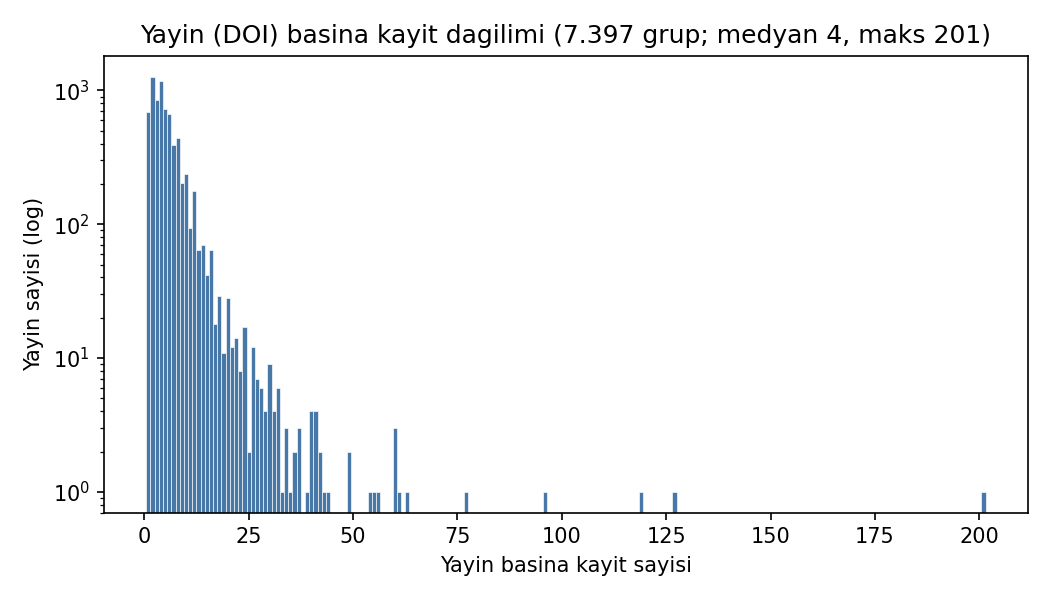
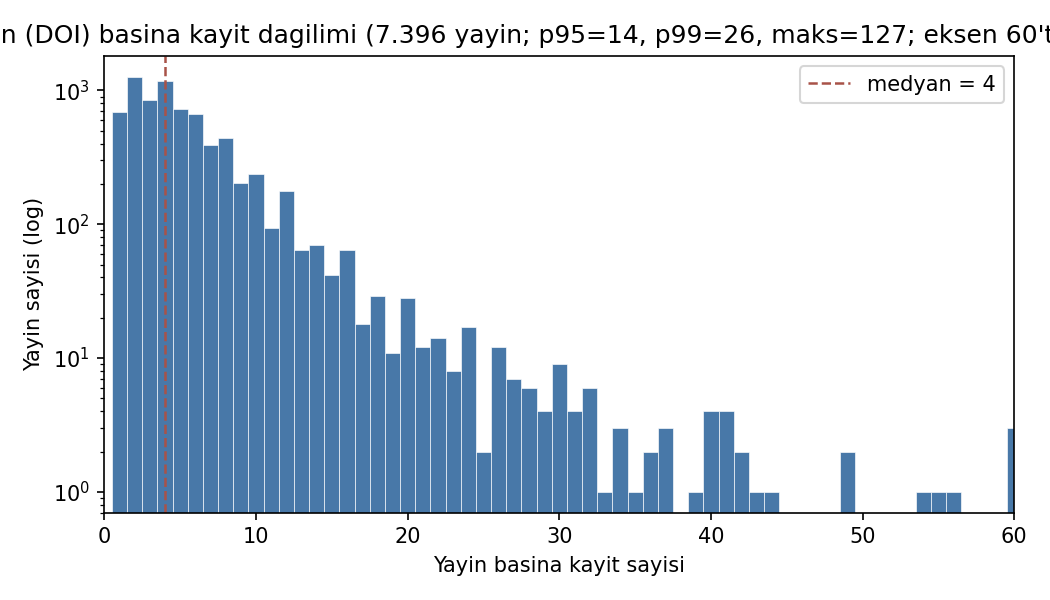
Tez denetimi duzeltmeleri: Sekil 4.5 tez varyanti, 03-07 kosu-manifestleri, denetim JSON ciktilari
- thesis_figures.py Sekil 4.5: tezdeki sekille ayni varyant (yalnizca bilinen-DOI
  7.396 yayin, x-ekseni 60'ta kesim, medyan cizgisi); PNG yeniden uretildi
- scripts/03-07'ye write_manifest eklendi ve asamalar yeniden kosuldu ->
  tez 3.15'teki 'her asamanin kosu-manifesti' iddiasi artik tum asamalar icin
  gecerli (yeniden kosumda commit'li sonuc dosyalari bit-duzeyinde degismedi;
  yalnizca RandomForest satirinda 1e-16 duzeyi kayan-nokta farki gozlendi ve
  orijinal dosya korundu)
- doi_grup_dogrulama_v2.py ve kontamine_test_maesi.py artik JSON ozet yaziyor;
  tez 5.7'deki 44/10/37/362/%0,87 ve 35 kayit MAE 3,36-3,15 degerleri commit'li
  dosyadan izlenebilir
- Sekil 4.11 kaynagi outputs/v4/actual_vs_predicted.png commit'lendi (tek eksik sekil)
- registry.py: kullanilmayan KNeighborsRegressor import'u kaldirildi
- run_all.py docstring + README: --all kapsami (thesis_data_analysis + thesis_figures)
- ci.yml: yanlis 'alt-sinir uyumlulugu sinanir' yorumu duzeltildi

diff --git a/doi_grup_dogrulama_v2.py b/doi_grup_dogrulama_v2.py
@@ -135,3 +135,24 @@ print("\n[D] Ham veri kontrolu (Perovskite_database_content_all_data.csv):")
 raw = pd.read_csv("data/raw/Perovskite_database_content_all_data.csv",
                   encoding="utf-8-sig", usecols=["Ref_DOI_number"], low_memory=False)
 print(f"    Ham satir: {len(raw)}, DOI'siz (NaN): {raw['Ref_DOI_number'].isna().sum()}")
+
+# ---------- Ozet JSON (tez 5.7 / README'deki degerler commit'li dosyadan izlenebilsin) ----------
+import json
+from pathlib import Path
+
+summary = {
+    "n_doi_missing": int(n_missing),
+    "n_unknown_doi_group": int(n_unknown),
+    "n_groups_pipeline": int(len(uniq_raw)),
+    "n_collisions_normalized": int(len(collisions)),
+    "n_records_affected": int(n_affected_records),
+    "n_collisions_split_holdout": int(len(split_holdout)),
+    "n_collisions_split_cv": int(len(split_cv)),
+    "n_records_split_holdout": int(n_rec_split_holdout),
+    "n_records_split_cv": int(n_rec_split_cv),
+    "pct_records_split_cv": round(100 * n_rec_split_cv / len(M), 3),
+}
+outp = Path("outputs/robustness/doi_grup_dogrulama.json")
+outp.parent.mkdir(parents=True, exist_ok=True)
+json.dump(summary, open(outp, "w", encoding="utf-8"), indent=2, ensure_ascii=False)
+print(f"\nOzet JSON: {outp}")

diff --git a/scripts/thesis_figures.py b/scripts/thesis_figures.py
@@ -97,15 +97,25 @@ def main():
         axes[1].set_title("Band gap'e gore ortalama PCE (kutu n >= 30)")
         _save(fig, outdir, "sekil_4_03_bandgap.png", made)
 
-        # Sekil 4.5 — DOI basina kayit sayisi
-        sizes = M.groupby(M[gcol].fillna("unknown_doi").astype(str)).size()
+        # Sekil 4.5 — DOI basina kayit sayisi (tez basligiyla uyumlu: yalnizca
+        # DOI'si bilinen yayinlar; x-ekseni 60 kayitta kesilir, kuyruk maks 127).
+        # DOI'siz kayitlarin tek yapay grupta toplandigi kurulum (7.397 grup,
+        # en buyuk grup 201) yalnizca bolme mantigini ilgilendirir; tez metninde
+        # ayrica raporlanir.
+        known = M[M[gcol].notna()]
+        sizes = known.groupby(known[gcol].astype(str)).size()
+        p95, p99 = np.percentile(sizes, [95, 99])
         fig, ax = plt.subplots(figsize=(7, 4))
         ax.hist(sizes, bins=np.arange(0.5, sizes.max() + 1.5, 1),
                 color="#4878a8", edgecolor="white", linewidth=0.3)
         ax.set_yscale("log")
+        ax.set_xlim(0, 60)
+        ax.axvline(sizes.median(), color="#a85248", linestyle="--", linewidth=1.2,
+                   label=f"medyan = {sizes.median():.0f}")
+        ax.legend()
         ax.set_xlabel("Yayin basina kayit sayisi"); ax.set_ylabel("Yayin sayisi (log)")
-        ax.set_title(f"Yayin (DOI) basina kayit dagilimi ({_tr(sizes.shape[0])} grup; "
-                     f"medyan {sizes.median():.0f}, maks {sizes.max()})")
+        ax.set_title(f"Yayin (DOI) basina kayit dagilimi ({_tr(sizes.shape[0])} yayin; "
+                     f"p95={p95:.0f}, p99={p99:.0f}, maks={sizes.max()}; eksen 60'ta kesildi)")
         _save(fig, outdir, "sekil_4_05_doi_dagilimi.png", made)
 
         # Sekil 4.6 — medyanla doldurulan degiskenlerin oranlari

diff --git a/kontamine_test_maesi.py b/kontamine_test_maesi.py
@@ -66,3 +66,19 @@ print(f"\nKontamine test kayitlari (n={len(mask_contam)}): MAE = {ae[mask_contam
 print(f"Temiz test kayitlari     (n={len(mask_clean)}): MAE = {ae[mask_clean].mean():.3f}")
 print("\nYorum: kontamine MAE, temiz MAE'den YUKSEK ise sizinti bu kayitlarda")
 print("olculebilir bir skor sisirmesi yaratmamis demektir.")
+
+# Ozet JSON (tez 5.7'deki 35 kayit / MAE 3,36-3,15 degerleri commit'li dosyadan izlenebilsin)
+import json
+from pathlib import Path
+
+summary = {
+    "n_contaminated_test": int(len(mask_contam)),
+    "n_clean_test": int(len(mask_clean)),
+    "mae_contaminated": round(float(ae[mask_contam].mean()), 3),
+    "mae_clean": round(float(ae[mask_clean].mean()), 3),
+    "n_train_side_records": int(train_side_n),
+}
+outp = Path("outputs/robustness/kontamine_test_maesi.json")
+outp.parent.mkdir(parents=True, exist_ok=True)
+json.dump(summary, open(outp, "w", encoding="utf-8"), indent=2, ensure_ascii=False)
+print(f"\nOzet JSON: {outp}")

diff --git a/scripts/03_compare_models.py b/scripts/03_compare_models.py
@@ -19,6 +19,7 @@ from perovskite_ml.config import load_config
 from perovskite_ml.models.registry import build_models
 from perovskite_ml.models.evaluate import metrics
 from perovskite_ml.validation.splits import holdout_split, group_kfold
+from perovskite_ml.utils.manifest import write_manifest
 
 def main():
     cfg = load_config(str(ROOT / "config.yaml"))
@@ -85,6 +86,13 @@ def main():
     json.dump({"best_model": best, "n_features": X.shape[1], "n_rows": len(M),
                "active_models": list(models.keys())},
               open(outdir / "metadata.json", "w"), indent=2)
+    write_manifest(ROOT / cfg["paths"]["outputs_dir"] / "manifests", "stage3_models", cfg,
+                   metrics={"best_model": best,
+                            "best_cv_r2": round(float(cv_df.iloc[0]["R2_mean"]), 4),
+                            "best_holdout_r2": round(float(hold_df.iloc[0]["R2"]), 4)},
+                   outputs=["outputs/v4/model_comparison_holdout.csv",
+                            "outputs/v4/model_comparison_groupkfold.csv",
+                            "outputs/v4/best_model_holdout_predictions.csv"])
 
     print("\n================= STAGE 3 RESULTS =================")
     print(">> HOLDOUT (DOI-grup 80/20):")

diff --git a/scripts/04_validation_experiments.py b/scripts/04_validation_experiments.py
@@ -21,6 +21,7 @@ from perovskite_ml.data.load_data import load_raw
 from perovskite_ml.data.clean_data import clean_rows
 from perovskite_ml.features.composition import vectorize_dataframe
 from perovskite_ml.features.feature_builder import build_features
+from perovskite_ml.utils.manifest import write_manifest
 
 LEAK_COLS = ["JV_default_Voc", "JV_default_Jsc", "JV_default_FF"]
 
@@ -100,6 +101,12 @@ def main():
 
     df = pd.DataFrame(rows)
     df.to_csv(outdir / "validation_experiments.csv", index=False)
+    write_manifest(ROOT / cfg["paths"]["outputs_dir"] / "manifests", "stage4_validation", cfg,
+                   metrics={"random_kfold_r2": round(r_mean, 4),
+                            "group_kfold_r2": round(g_mean, 4),
+                            "inflation_r2": round(inflation, 4),
+                            "experiment_b_done": b_done},
+                   outputs=["outputs/v4/validation_experiments.csv"])
 
     print("\n================= STAGE 4 RESULTS =================")
     print(">> Deney A — Bolme stratejisi (ayni model, ayni ozellikler):")

diff --git a/scripts/06_generate_candidates.py b/scripts/06_generate_candidates.py
@@ -14,6 +14,7 @@ ROOT = Path(__file__).resolve().parents[1]
 sys.path.insert(0, str(ROOT / "src"))
 from perovskite_ml.config import load_config
 from perovskite_ml.candidates.candidate_space import enumerate_candidates, axis_sizes
+from perovskite_ml.utils.manifest import write_manifest
 
 def main():
     cfg = load_config(str(ROOT / "config.yaml"))
@@ -52,6 +53,11 @@ def main():
             "pred_mean": float(preds.mean()),
             "train_pce_max": float(y_train.max()), "train_pce_p99": float(np.percentile(y_train,99))}
     json.dump(meta, open(outdir / "metadata.json", "w"), indent=2)
+    write_manifest(ROOT / cfg["paths"]["outputs_dir"] / "manifests", "stage6_candidates", cfg,
+                   metrics={"model": best, "n_candidates": len(recipes),
+                            "pred_max": round(float(preds.max()), 4)},
+                   outputs=["outputs/candidates_full/candidate_predictions.csv",
+                            "outputs/candidates_full/top30_diverse.csv"])
 
     print("\n================= STAGE 6 RESULTS =================")
     print(f"Model: {best}")

diff --git a/scripts/05_shap_analysis.py b/scripts/05_shap_analysis.py
@@ -21,6 +21,7 @@ from perovskite_ml.models.registry import build_models
 from perovskite_ml.validation.splits import holdout_split
 from perovskite_ml.explain.shap_analysis import (
     sample_for_shap, compute_shap_values, shap_importance, save_shap_plots)
+from perovskite_ml.utils.manifest import write_manifest
 
 
 def main():
@@ -57,6 +58,10 @@ def main():
 
     json.dump({"model": best, "shap_sample": int(len(idx))},
               open(outdir / "metadata.json", "w"), indent=2)
+    write_manifest(ROOT / cfg["paths"]["outputs_dir"] / "manifests", "stage5_shap", cfg,
+                   metrics={"model": best, "shap_sample": int(len(idx)),
+                            "top_feature": str(imp.iloc[0]["feature"])},
+                   outputs=["outputs/shap_full/shap_top_features.csv"])
 
     print("\n================= STAGE 5 RESULTS =================")
     print(f"Model: {best} | SHAP ornek: {len(idx)} kayit")

diff --git a/scripts/07_screening_utility.py b/scripts/07_screening_utility.py
@@ -14,6 +14,7 @@ ROOT = Path(__file__).resolve().parents[1]
 sys.path.insert(0, str(ROOT / "src"))
 from perovskite_ml.config import load_config
 from perovskite_ml.simulation.screening import enrichment_table, gains_curve
+from perovskite_ml.utils.manifest import write_manifest
 
 THRESHOLDS = [18, 20, 22]
 K_FRACS = [0.05, 0.10, 0.20]
@@ -45,6 +46,10 @@ def main():
 
     json.dump({"n_test": int(len(df)), "spearman": float(rho), "gains_threshold": GAINS_THR},
               open(outdir / "metadata.json", "w"), indent=2)
+    write_manifest(ROOT / cfg["paths"]["outputs_dir"] / "manifests", "stage7_screening", cfg,
+                   metrics={"n_test": int(len(df)), "spearman": round(float(rho), 4),
+                            "gains_threshold": GAINS_THR},
+                   outputs=["outputs/screening/enrichment.csv"])
 
     print("\n================= STAGE 7 RESULTS =================")
     print(f"Holdout test: {len(df)} hucre | Spearman(tahmin,gercek) = {rho:.3f}")

diff --git a/run_all.py b/run_all.py
@@ -3,7 +3,7 @@
 
 Kullanim:
   python run_all.py          # cekirdek hat (01-10)
-  python run_all.py --all    # + ek dogrulama/saglamlik betikleri (11-14 + thesis_data_analysis)
+  python run_all.py --all    # + ek dogrulama/saglamlik betikleri (11-14 + thesis_data_analysis + thesis_figures)
 
 Her adim bir onceki adimin ciktilarina dayanir; bir adim basarisiz olursa
 (cikis kodu != 0) calisma durur. Betikler config.yaml ve data/ yollarini

diff --git a/src/perovskite_ml/models/registry.py b/src/perovskite_ml/models/registry.py
@@ -2,7 +2,6 @@
 kuruluysa eklenir, kurulu degilse zarafetle atlanir (ortamdan bagimsiz calisir)."""
 from sklearn.ensemble import RandomForestRegressor, HistGradientBoostingRegressor
 from sklearn.linear_model import Ridge
-from sklearn.neighbors import KNeighborsRegressor
 from sklearn.pipeline import make_pipeline
 from sklearn.preprocessing import StandardScaler
 

diff --git a/README.md b/README.md
@@ -56,7 +56,7 @@ goruntuye aittir; farkli bir kopya kullaniyorsaniz once satir sayisi ve checksum
 Tek komut (tum cekirdek hat):
 ```bash
 python run_all.py            # cekirdek hat (01-10)
-python run_all.py --all      # + ek dogrulama/saglamlik betikleri (11-14)
+python run_all.py --all      # + ek dogrulama/saglamlik betikleri (11-14 + thesis_data_analysis + thesis_figures)
 ```
 
 Ya da adim adim:
@@ -94,14 +94,15 @@ python aday_uyumluluk_filtresi.py        # (mimari,ETL,HTL) uclulerinin egitimde
 ## DOI-grup denetim betikleri
 Gruplama anahtarinin (ham DOI dizgileri) kalitesini ve olasi kalinti sizintiyi olcen bagimsiz denetim betikleri (repo kokunde):
 ```bash
-python doi_grup_dogrulama_v2.py          # DOI'siz kayit sayimi, normalizasyon carpismalari, holdout/CV kat-siniri asimlari
+python doi_grup_dogrulama_v2.py          # DOI'siz kayit sayimi, normalizasyon carpismalari, holdout/CV kat-siniri asimlari -> outputs/robustness/doi_grup_dogrulama.json
 python doi_normalizasyon_duyarlilik.py   # normalize_doi() uygulanmis gruplarla ayni CatBoost'un duyarlilik kosumu (~40 sn)
-python kontamine_test_maesi.py           # sinir asan yayinlarin holdout-test kayitlarinda hata analizi (~15 sn)
+python kontamine_test_maesi.py           # sinir asan yayinlarin holdout-test kayitlarinda hata analizi (~15 sn) -> outputs/robustness/kontamine_test_maesi.json
 ```
 Bulgu ozeti: 44 yayin buyuk/kucuk harf varyantiyla cift kayitli; kat-siniri asan 362 kayit (%0,87).
 Normalizasyonla fark |dR2| <= 0,003 (kat gurultusu icinde); skor sisirme izi yok. Baslik sonuclar bu nedenle
-ozgun kosumdan raporlanir; kusur olculmus kalinti risk olarak belgelenmistir. Duyarlilik kosumunun sayisal
-ciktisi `outputs/robustness/doi_normalizasyon_duyarlilik.json` olarak kaydedilir (tez Bolum 5.7'deki degerler).
+ozgun kosumdan raporlanir; kusur olculmus kalinti risk olarak belgelenmistir. Uc kosumun sayisal ciktilari
+`outputs/robustness/` altinda commit'lidir: `doi_grup_dogrulama.json` (44/362 denetimi),
+`doi_normalizasyon_duyarlilik.json` ve `kontamine_test_maesi.json` (tez Bolum 5.7'deki degerler).
 
 ## Testler
 ```bash